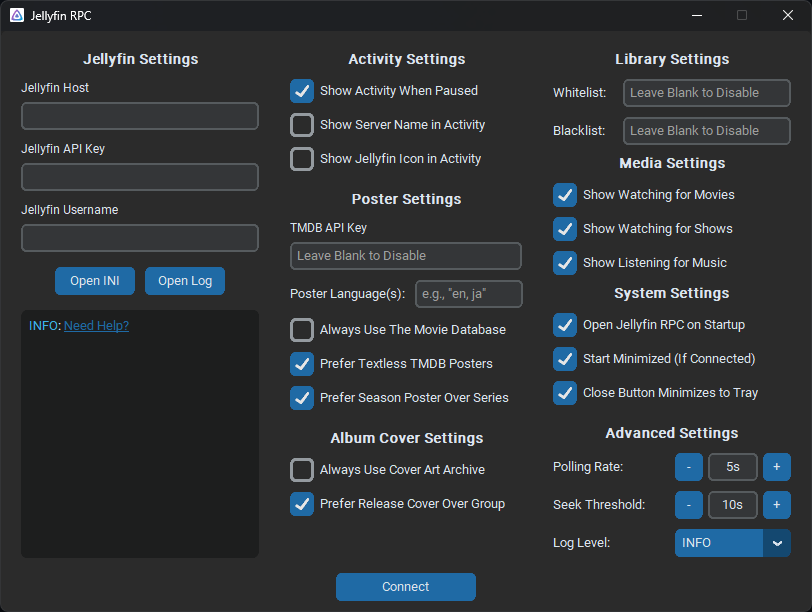
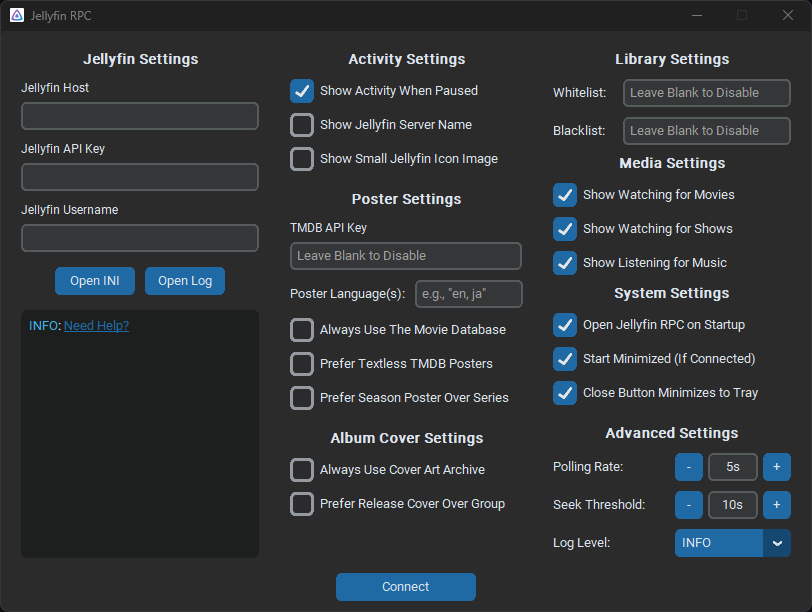
updated poster defaults and added image width

diff --git a/src/jellyfin_rpc/main.py b/src/jellyfin_rpc/main.py
@@ -168,9 +168,14 @@ async def get_music_id(session: ClientSession, artist: str, album: str) -> str |
     return None
 
 
-def select_poster(posters: list[dict[str, Any]], languages: list[str]) -> dict[str, Any]:
+def select_poster(posters: list[dict[str, Any]], languages: list[str]) -> dict[str, Any] | None:
+    if not posters:
+        return None
+
     def get_poster_score(poster: dict[str, Any]) -> tuple[float, int]:
-        return float(poster.get('vote_average', 0.0)), int(poster.get('vote_count', 0))
+        return float(poster.get('vote_average', 0.0)), int(
+            poster.get('vote_count', 0), int(poster.get('width', 0))
+        )
 
     posters_by_lang = {}
     for poster in posters:
@@ -189,15 +194,23 @@ def select_poster(posters: list[dict[str, Any]], languages: list[str]) -> dict[s
 async def get_series_poster(
     session: ClientSession, api_key: str, tmdb_id: str, languages: list[str]
 ) -> str:
-    images_url = f'https://api.themoviedb.org/3/tv/{tmdb_id}/images'
-    images_params = {'api_key': api_key}
     try:
-        async with session.get(images_url, params=images_params) as response:
-            response.raise_for_status()
-            data = await response.json()
-            if poster := select_poster(data['posters'], languages):
-                return 'https://image.tmdb.org/t/p/w185/' + poster['file_path']
-            logger.warning('No Poster Available on TMDB. Skipping...')
+        if languages:
+            images_url = f'https://api.themoviedb.org/3/tv/{tmdb_id}/images'
+            async with session.get(images_url, params={'api_key': api_key}) as response:
+                response.raise_for_status()
+                data = await response.json()
+                if poster := select_poster(data['posters'], languages):
+                    return 'https://image.tmdb.org/t/p/w185/' + poster['file_path']
+                logger.warning('No Poster Available on TMDB. Skipping...')
+        else:
+            series_url = f'https://api.themoviedb.org/3/tv/{tmdb_id}'
+            async with session.get(series_url, params={'api_key': api_key}) as response:
+                response.raise_for_status()
+                data = await response.json()
+                if poster_path := data.get('poster_path'):
+                    return 'https://image.tmdb.org/t/p/w185/' + poster_path
+                logger.warning('No Poster Available on TMDB. Skipping...')
     except (aiohttp.ClientError, asyncio.TimeoutError) as e:
         logger.warning(f'TMDB API Network Error ({type(e).__name__}). Skipping...')
         logger.debug(e)
@@ -216,30 +229,50 @@ async def get_season_poster(
 ) -> str:
     if season is None:
         return await get_series_poster(session, api_key, tmdb_id, languages)
-    images_url = f'https://api.themoviedb.org/3/tv/{tmdb_id}/season/{season}/images'
-    images_params = {'api_key': api_key}
+
     try:
-        async with session.get(images_url, params=images_params) as response:
-            response.raise_for_status()
-            data = await response.json()
-            poster = select_poster(data['posters'], languages)
-            return 'https://image.tmdb.org/t/p/w185/' + poster['file_path']
+        if languages:
+            images_url = f'https://api.themoviedb.org/3/tv/{tmdb_id}/season/{season}/images'
+            async with session.get(images_url, params={'api_key': api_key}) as response:
+                response.raise_for_status()
+                data = await response.json()
+                if poster := select_poster(data['posters'], languages):
+                    return 'https://image.tmdb.org/t/p/w185/' + poster['file_path']
+                logger.warning('No Poster Available on TMDB. Skipping...')
+        else:
+            season_url = f'https://api.themoviedb.org/3/tv/{tmdb_id}/season/{season}'
+            async with session.get(season_url, params={'api_key': api_key}) as response:
+                response.raise_for_status()
+                data = await response.json()
+                if poster_path := data.get('poster_path'):
+                    return 'https://image.tmdb.org/t/p/w185/' + poster_path
+                logger.warning('No Poster Available on TMDB. Skipping...')
     except aiohttp.ClientError, asyncio.TimeoutError, ValueError, KeyError, IndexError:
-        return await get_series_poster(session, api_key, tmdb_id, languages)
+        pass
+
+    return await get_series_poster(session, api_key, tmdb_id, languages)
 
 
 async def get_movie_poster(
     session: ClientSession, api_key: str, tmdb_id: str, languages: list[str]
 ) -> str:
-    images_url = f'https://api.themoviedb.org/3/movie/{tmdb_id}/images'
-    images_params = {'api_key': api_key}
     try:
-        async with session.get(images_url, params=images_params) as response:
-            response.raise_for_status()
-            data = await response.json()
-            if poster := select_poster(data['posters'], languages):
-                return 'https://image.tmdb.org/t/p/w185/' + poster['file_path']
-            logger.warning('No Poster Available on TMDB. Skipping...')
+        if languages:
+            images_url = f'https://api.themoviedb.org/3/movie/{tmdb_id}/images'
+            async with session.get(images_url, params={'api_key': api_key}) as response:
+                response.raise_for_status()
+                data = await response.json()
+                if poster := select_poster(data['posters'], languages):
+                    return 'https://image.tmdb.org/t/p/w185/' + poster['file_path']
+                logger.warning('No Poster Available on TMDB. Skipping...')
+        else:
+            movie_url = f'https://api.themoviedb.org/3/movie/{tmdb_id}'
+            async with session.get(movie_url, params={'api_key': api_key}) as response:
+                response.raise_for_status()
+                data = await response.json()
+                if poster_path := data.get('poster_path'):
+                    return 'https://image.tmdb.org/t/p/w185/' + poster_path
+                logger.warning('No Poster Available on TMDB. Skipping...')
     except (aiohttp.ClientError, asyncio.TimeoutError) as e:
         logger.warning(f'TMDB API Network Error ({type(e).__name__}). Skipping...')
         logger.debug(e)
@@ -324,14 +357,14 @@ async def activity_loop(
     for lang in languages:
         if len(lang) != 2 or not lang.isalpha():
             logger.warning(f'Invalid ISO 639-1 Language "{lang}"')
-    if config.getboolean('TEXTLESS_POSTERS', True):
+    if config.getboolean('TEXTLESS_POSTERS', False):
         languages.insert(0, '')
 
     always_use_tmdb = config.getboolean('ALWAYS_USE_TMDB', False)
-    season_over_series = config.getboolean('SEASON_OVER_SERIES', True)
+    season_over_series = config.getboolean('SEASON_OVER_SERIES', False)
 
     always_use_musicbrainz = config.getboolean('ALWAYS_USE_MUSICBRAINZ', False)
-    release_over_group = config.getboolean('RELEASE_OVER_GROUP', True)
+    release_over_group = config.getboolean('RELEASE_OVER_GROUP', False)
 
     whitelist = get_delimited_list(config, 'WHITELIST_LIBRARIES')
     blacklist = get_delimited_list(config, 'BLACKLIST_LIBRARIES')

diff --git a/src/jellyfin_rpc/app.py b/src/jellyfin_rpc/app.py
@@ -352,18 +352,18 @@ def main() -> None:
     jf_api_key = config.get('JELLYFIN_API_KEY', '')
     jf_username = config.get('JELLYFIN_USERNAME', '')
 
-    show_server_name = config.getboolean('SHOW_SERVER_NAME', False)
     show_when_paused = config.getboolean('SHOW_WHEN_PAUSED', True)
+    show_server_name = config.getboolean('SHOW_SERVER_NAME', False)
     show_jf_icon = config.getboolean('SHOW_JELLYFIN_ICON', False)
 
     tmdb_api_key = config.get('TMDB_API_KEY', '')
     poster_languages = config.get('POSTER_LANGUAGES', '')
     always_use_tmdb = config.getboolean('ALWAYS_USE_TMDB', False)
-    textless_posters = config.getboolean('TEXTLESS_POSTERS', True)
-    season_over_series = config.getboolean('SEASON_OVER_SERIES', True)
+    textless_posters = config.getboolean('TEXTLESS_POSTERS', False)
+    season_over_series = config.getboolean('SEASON_OVER_SERIES', False)
 
     always_use_musicbrainz = config.getboolean('ALWAYS_USE_MUSICBRAINZ', False)
-    release_over_group = config.getboolean('RELEASE_OVER_GROUP', True)
+    release_over_group = config.getboolean('RELEASE_OVER_GROUP', False)
 
     whitelist = config.get('WHITELIST_LIBRARIES', '')
     blacklist = config.get('BLACKLIST_LIBRARIES', '')
@@ -475,13 +475,13 @@ def main() -> None:
 
     var_server_name = ctk.IntVar(value=show_server_name)
     checkbox_server_name = ctk.CTkCheckBox(
-        master=col2, text='Show Server Name in Activity', variable=var_server_name
+        master=col2, text='Show Jellyfin Server Name', variable=var_server_name
     )
     checkbox_server_name.pack(anchor='w', pady=5, padx=10)
 
     var_jf_icon = ctk.IntVar(value=show_jf_icon)
     checkbox_jf_icon = ctk.CTkCheckBox(
-        master=col2, text='Show Jellyfin Icon in Activity', variable=var_jf_icon
+        master=col2, text='Show Small Jellyfin Icon Image', variable=var_jf_icon
     )
     checkbox_jf_icon.pack(anchor='w', pady=5, padx=10)
 

diff --git a/README.md b/README.md
@@ -1,9 +1,10 @@
+<!-- markdownlint-disable MD033 MD041 -->
 # Discord RPC for Jellyfin
 
 Jellyfin RPC updates your Discord status with what you're watching or listening to on your Jellyfin server. Make sure your Discord client is open and that your [Activity Privacy](https://support.discord.com/hc/en-us/articles/7931156448919-Activity-Sharing-on-Discord-FAQ) settings are configured correctly.
 
-![jellyfin_rpc_series](images/jellyfin_rpc_series.png)
-![jellyfin_rpc_movie](images/jellyfin_rpc_music.png)
+<img src="images/jellyfin_rpc_series.png" alt="jellyfin_rpc_series" width="300">
+<img src="images/jellyfin_rpc_music.png" alt="jellyfin_rpc_movie" width="300">
 
 ## Installation
 